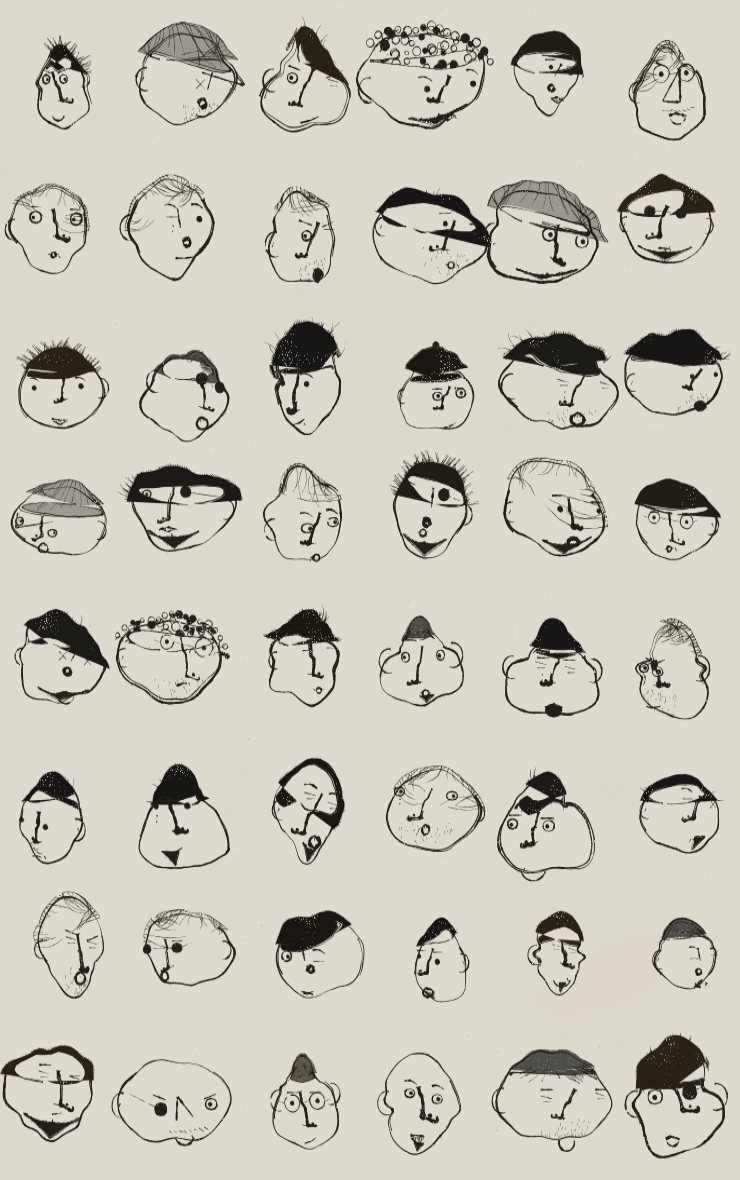
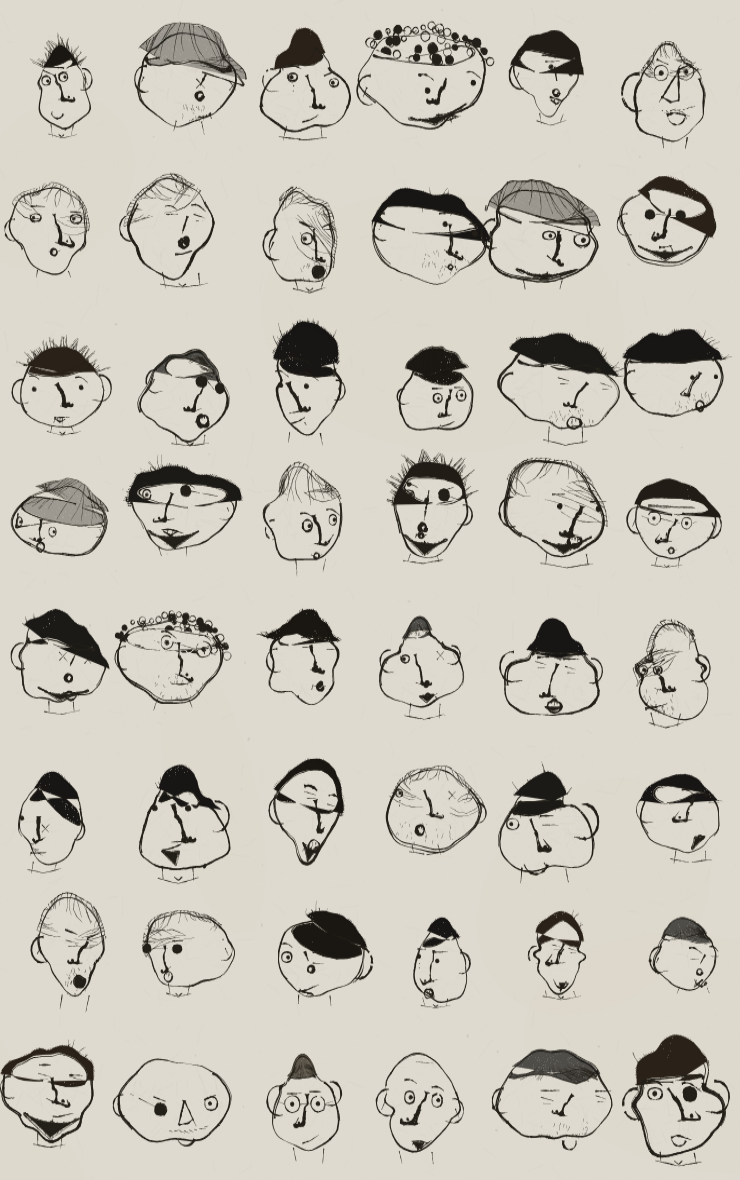
Gauntlet: limb edges that disagree, blots, ears, necks
Answering the last two critic rounds.

- Limb edges no longer come from offsetting one centreline, so the two
  sides of an arm wobble and taper independently instead of holding a
  machine-perfect constant gap. Hems and collars are drawn arcs rather
  than a ruled line and a compass ellipse.
- The torso leans a few degrees off the head's axis; shoulder heights,
  arm lengths and leg placement all disagree side to side.
- The pen overshoots corners, and drops the occasional blot where it sat
  too long.
- Ears are bigger and on every head that can show one; heads get a short
  neck and a collar or bow-tie mark, which every reference head has.
- The screen-space tooth filter is dialled back: the erosion that reads
  as ink lives in the mass, at the scale of the mark. A fixed grain size
  on a small head and a large one was a tell.
- Names stay clear of the figure's silhouette.
- Colour is gone from skins and garments; value is line and solid black
  only, and paper fibre is restamped over anything painted out.

Claude-Session: https://claude.ai/code/session_01RJWY9ufwnD6fjwW6ve4one

diff --git a/dude.js b/dude.js
@@ -233,6 +233,14 @@
       band(-0.32, 0.3, sd + 401, 0.45);
       band(0.32, 0.3, sd + 733, 0.47);
     }
+    // the odd blot where the nib sat down too long
+    if (w > 1.4 && rng.chance(0.1)) {
+      const k = rng.i(2, Math.max(3, n - 3));
+      const q = P[Math.min(n - 1, k)];
+      c.beginPath();
+      c.ellipse(q.x + rng.f(-1, 1), q.y + rng.f(-1, 1), W[k] * rng.f(0.8, 1.5), W[k] * rng.f(0.7, 1.2), rng.f(0, 3), 0, Math.PI * 2);
+      c.fill();
+    }
     // pools where the nib lingered
     for (let k = 3; k < n - 3; k += 2) {
       if (!live[k] || W[k] < w * 1.3) continue;
@@ -263,6 +271,19 @@
         w: (opt.w ?? 1.8) * rng.f(0.6, 0.82),
         dry: (opt.dry ?? 1) * 1.9,
         color: opt.color,
+      });
+    }
+    // the pen runs past the corner instead of stopping on it
+    if (opt.overshoot !== false && !opt.closed && path.length >= 2 && rng.chance(0.42)) {
+      const a = path[path.length - 2];
+      const b = path[path.length - 1];
+      const d = Math.hypot(b.x - a.x, b.y - a.y) || 1;
+      const g = (opt.w ?? 1.8) * rng.f(1.2, 4.5);
+      nib(c, rng, [b, { x: b.x + ((b.x - a.x) / d) * g, y: b.y + ((b.y - a.y) / d) * g }], {
+        w: (opt.w ?? 1.8) * rng.f(0.4, 0.75),
+        color: opt.color,
+        dry: 1.4,
+        wobble: 0.4,
       });
     }
     if (passes < 2 || path.length < 2) return;
@@ -350,6 +371,47 @@
       const b = { x: cx + (dx / d) * (d + reach - bite * 0.85), y: cy + (dy / d) * (d + reach - bite * 0.85) };
       nib(c, rng, [a, b], { w: bite * rng.f(0.34, 0.68), color, dry: 0.9, wobble: 0.5, alpha: opt.alpha ?? 1 });
     }
+  }
+
+  // Anywhere we paint paper over the drawing to occlude it, the fibre has to
+  // go back on top, or the figure reads as a cut-out pasted on the sheet.
+  function refibre(c, rng, poly) {
+    if (!poly || poly.length < 3) return;
+    let x0 = Infinity;
+    let y0 = Infinity;
+    let x1 = -Infinity;
+    let y1 = -Infinity;
+    for (const p of poly) {
+      if (p.x < x0) x0 = p.x;
+      if (p.x > x1) x1 = p.x;
+      if (p.y < y0) y0 = p.y;
+      if (p.y > y1) y1 = p.y;
+    }
+    const area = (x1 - x0) * (y1 - y0);
+    if (!isFinite(area) || area <= 0) return;
+    c.save();
+    c.beginPath();
+    poly.forEach((p, i) => (i ? c.lineTo(p.x, p.y) : c.moveTo(p.x, p.y)));
+    c.closePath();
+    c.clip();
+    const n = Math.min(700, Math.round(area / 90));
+    for (let i = 0; i < n; i++) {
+      const a = rng.f(0, Math.PI * 2);
+      const len = rng.f(3, 20);
+      c.strokeStyle = rng.chance(0.55) ? "rgba(74,60,40,0.03)" : "rgba(255,253,246,0.05)";
+      c.lineWidth = rng.f(0.4, 1.0);
+      const x = rng.f(x0, x1);
+      const y = rng.f(y0, y1);
+      c.beginPath();
+      c.moveTo(x, y);
+      c.lineTo(x + Math.cos(a) * len, y + Math.sin(a) * len);
+      c.stroke();
+    }
+    for (let i = 0; i < n * 4; i++) {
+      c.fillStyle = rng.chance(0.6) ? "rgba(48,36,22,0.032)" : "rgba(255,255,255,0.034)";
+      c.fillRect(rng.f(x0, x1), rng.f(y0, y1), rng.f(0.3, 1.2), rng.f(0.25, 0.8));
+    }
+    c.restore();
   }
 
   // Solid mass with a ragged, hand-cut edge.
@@ -518,8 +580,10 @@
         } else if (!edge) {
           // Tooth shows through a mass in PATCHES, where the sheet rides high
           // under the nib — never as an even sprinkle across the whole black.
+          // Kept light: the erosion that reads as ink belongs in the mass
+          // itself, at the scale of the mark, not in a screen-space filter.
           const t = valueNoise(x * 0.045, y * 0.045, 5501);
-          if (t > 0.6 && u < (t - 0.6) * 0.42) {
+          if (t > 0.72 && u < (t - 0.72) * 0.3) {
             const fade = 0.2 + u * 6;
             d[p] = r + (pr - r) * fade;
             d[p + 1] = g + (pg - g) * fade;
@@ -763,6 +827,7 @@
   function drawHead(c, rng, skull, skinWash) {
     const hull = skull.silhouette(rng);
     inkFill(c, rng, hull, PAPER, 1, 0.6);
+    refibre(c, rng, hull);
     if (skinWash) inkFill(c, rng, hull, skinWash, 0.16, 0.6);
     // A head is not one closed loop. It is a cranium drawn over, then a jaw
     // drawn under, and they overshoot and cross where they meet — which is
@@ -788,10 +853,38 @@
 
     const earL = pin(skull, { x: -0.92, y: 0.02, z: 0.05 });
     const earR = pin(skull, { x: 0.92, y: 0.02, z: 0.05 });
-    const er = skull.s * rng.f(0.17, 0.26);
-    if (earL.z > -0.02 && rng.chance(0.88)) drawEar(c, rng, earL.x, earL.y, er, -1);
-    if (earR.z > -0.02 && rng.chance(0.88)) drawEar(c, rng, earR.x, earR.y, er, 1);
+    const er = skull.s * rng.f(0.2, 0.32);
+    if (earL.z > -0.02) drawEar(c, rng, earL.x, earL.y, er * rng.f(0.85, 1.15), -1);
+    if (earR.z > -0.02) drawEar(c, rng, earR.x, earR.y, er * rng.f(0.85, 1.15), 1);
     return hull;
+  }
+
+  // A little neck and collar under the chin. Every head on the reference
+  // plates has one; a head floating alone on the paper does not read.
+  function drawNeck(c, rng, skull) {
+    const s = skull.s;
+    const chin = skull.limit(skull.project({ x: 0, y: 0.95, z: 0.35 }), 0);
+    const drop = s * rng.f(0.14, 0.3);
+    const halfW = s * rng.f(0.3, 0.46);
+    const l = { x: chin.x - halfW, y: chin.y - s * 0.04 };
+    const r = { x: chin.x + halfW * rng.f(0.85, 1.15), y: chin.y - s * 0.02 };
+    const lb = { x: l.x + rng.f(-3, 3), y: chin.y + drop };
+    const rb = { x: r.x + rng.f(-3, 3), y: chin.y + drop * rng.f(0.9, 1.1) };
+    inkPoly(c, rng, [l, lb], { w: s * 0.02, dry: 0.5 });
+    inkPoly(c, rng, [r, rb], { w: s * 0.02, dry: 0.5 });
+    if (rng.chance(0.6)) {
+      // the collar, or a bow tie, or a scribble that stands for one
+      const mid = { x: (lb.x + rb.x) / 2, y: (lb.y + rb.y) / 2 };
+      inkPoly(c, rng, [{ x: lb.x - s * 0.12, y: lb.y - s * 0.02 }, { x: mid.x, y: mid.y + s * rng.f(0.04, 0.1) }, { x: rb.x + s * 0.12, y: rb.y - s * 0.02 }], { w: s * 0.019, dry: 0.6, wobble: s * 0.03 });
+      if (rng.chance(0.45)) {
+        inkPoly(c, rng, [
+          { x: mid.x - s * 0.09, y: mid.y - s * 0.03 },
+          { x: mid.x, y: mid.y + s * 0.04 },
+          { x: mid.x + s * 0.09, y: mid.y - s * 0.03 },
+          { x: mid.x, y: mid.y + s * 0.04 },
+        ], { w: s * 0.017, dry: 0.7 });
+      }
+    }
   }
 
   function drawEar(c, rng, x, y, r, side) {
@@ -1353,7 +1446,7 @@
     // raw 3D points works until the head turns, and then the nose walks off
     // across the cheek. The axis turns with the skull; the nose rides it.
     const fy = skull.faceY || 0;
-    const browP = skull.project({ x: 0, y: -0.34 + fy, z: 0.72 });
+    const browP = skull.project({ x: rng.f(-0.05, 0.05), y: -0.24 + fy + rng.f(-0.05, 0.06), z: 0.72 });
     const chinP = skull.project({ x: 0, y: 0.95, z: 0.4 });
     let ax = chinP.x - browP.x;
     let ay = chinP.y - browP.y;
@@ -1568,12 +1661,31 @@
   // side, down the leg, round the shoe and back — then clothes cut into it.
   // A torso box with tube limbs stuck on is the thing that reads as assembly.
 
-  function edgeOf(pts, r, side) {
+  // Two lines drawn down a limb by hand never stay parallel. Offsetting one
+  // centreline gives a machine-perfect constant gap, which is the thing that
+  // makes an arm read as a stroked path instead of a drawing.
+  function edgeOf(pts, r, side, seed = 0) {
     const N = normals(pts);
     const out = [];
-    for (let i = 0; i < pts.length; i++) {
-      const rr = typeof r === "function" ? r(i / (pts.length - 1 || 1)) : r;
+    const n = pts.length;
+    for (let i = 0; i < n; i++) {
+      const t = i / (n - 1 || 1);
+      const j = fbm2(t * 3.6 + seed * 0.7, seed * 1.3 + 4, 3301 + ((seed * 37) | 0)) - 0.5;
+      const j2 = fbm2(t * 9.1 + seed, seed * 0.4 + 9, 5507 + ((seed * 11) | 0)) - 0.5;
+      const rr = (typeof r === "function" ? r(t) : r) * (1 + j * 0.44 + j2 * 0.16);
       out.push({ x: pts[i].x + N[i].x * rr * side, y: pts[i].y + N[i].y * rr * side });
+    }
+    return out;
+  }
+
+  // an arc with a hand's radius, not a compass's
+  function arcPts(x, y, r, a0, a1, rng) {
+    const n = Math.max(6, Math.round((r * Math.abs(a1 - a0)) / 4));
+    const out = [];
+    for (let i = 0; i <= n; i++) {
+      const a = a0 + (a1 - a0) * (i / n);
+      const rr = r * (1 + (fbm2(i * 0.4, r * 0.03, rng.seed + 13) - 0.5) * 0.22);
+      out.push({ x: x + Math.cos(a) * rr, y: y + Math.sin(a) * rr * rng.f(0.95, 1.05) });
     }
     return out;
   }
@@ -1645,7 +1757,15 @@
     const asymR = rng.f(0.86, 1.14);
     const asym = (side) => (side < 0 ? asymL : asymR);
 
-    const P = (x, y) => ({ x: cx + x + lx * (y - neckY) / (s * 2), y });
+    // the torso leans a few degrees off the head's axis
+    const tilt = rng.f(-0.1, 0.1);
+    const ct = Math.cos(tilt);
+    const st = Math.sin(tilt);
+    const P = (x, y) => {
+      const dy = y - neckY;
+      const dx = x + (lx * dy) / (s * 2);
+      return { x: cx + dx * ct - dy * st, y: neckY + dx * st + dy * ct };
+    };
 
     // ---- skeleton lines the outline is grown around ----
     const arm = (side) => {
@@ -1763,13 +1883,13 @@
       .concat([waistL])
       .concat(span(waistL, hipL, 3))
       .concat([hipL])
-      .concat(edgeOf(LlS, legR, -1).slice(1))
+      .concat(edgeOf(LlS, legR, -1, 31).slice(1))
       .concat(Lfoot)
-      .concat(edgeOf(LlS, legR, 1).reverse().slice(1, -1))
+      .concat(edgeOf(LlS, legR, 1, 43).reverse().slice(1, -1))
       .concat([crotch])
-      .concat(edgeOf(RlS, legR, -1).slice(1))
+      .concat(edgeOf(RlS, legR, -1, 57).slice(1))
       .concat(Rfoot.slice().reverse())
-      .concat(edgeOf(RlS, legR, 1).reverse().slice(1, -1))
+      .concat(edgeOf(RlS, legR, 1, 71).reverse().slice(1, -1))
       .concat([hipR])
       .concat(span(hipR, waistR, 3))
       .concat([waistR])
@@ -1778,13 +1898,13 @@
       .concat(span(shoulderR, neckR, 3))
       .concat([neckR]);
 
-    const armShape = (S) => {
-      const a = edgeOf(S, armR, -1);
-      const b = edgeOf(S, armR, 1);
+    const armShape = (S, sd) => {
+      const a = edgeOf(S, armR, -1, sd);
+      const b = edgeOf(S, armR, 1, sd + 13);
       return a.concat(round(S, armR(1))).concat(b.reverse());
     };
-    const Larm = armShape(LaS);
-    const Rarm = armShape(RaS);
+    const Larm = armShape(LaS, 11);
+    const Rarm = armShape(RaS, 83);
 
     if (clothes.wash) {
       inkFill(c, rng, core, clothes.wash, 0.22, 0.8);
@@ -1799,6 +1919,8 @@
     // the arm sits in front of the body, so it hides the line behind it
     inkFill(c, rng, Larm, clothes.wash || PAPER, clothes.wash ? 0.22 : 1, 0.8);
     inkFill(c, rng, Rarm, clothes.wash || PAPER, clothes.wash ? 0.22 : 1, 0.8);
+    refibre(c, rng, Larm);
+    refibre(c, rng, Rarm);
     inkPoly(c, rng, Larm, { closed: true, w: bw * 0.92, dry: 0.7, wobble: wob * 0.8 });
     inkPoly(c, rng, Rarm, { closed: true, w: bw * 0.92, dry: 0.7, wobble: wob * 0.8 });
     if (pose !== "folded" && pose !== "pockets") {
@@ -1821,19 +1943,19 @@
     const sleeveT = rng.f(0.42, 0.72);
     const cuff = (S, side) => {
       const i = Math.round(sleeveT * (S.length - 1));
-      const a = edgeOf(S, armR, -1)[i];
-      const b = edgeOf(S, armR, 1)[i];
+      const a = edgeOf(S, armR, -1, side < 0 ? 11 : 83)[i];
+      const b = edgeOf(S, armR, 1, side < 0 ? 24 : 96)[i];
       if (a && b) inkLine(c, rng, a.x, a.y, b.x, b.y, s * 0.016);
     };
 
     if (clothes.kind === "tee") {
       cuff(LaS, -1);
       cuff(RaS, 1);
-      inkArc(c, rng, (neckL.x + neckR.x) / 2, neckL.y + s * 0.06, s * rng.f(0.24, 0.32), 0.42, Math.PI - 0.42, s * 0.017);
-      inkLine(c, rng, waistL.x + s * 0.04, hemY, waistR.x - s * 0.04, hemY + rng.f(-4, 4), s * 0.018);
+      inkPoly(c, rng, arcPts((neckL.x + neckR.x) / 2, neckL.y + s * 0.06, s * rng.f(0.24, 0.32), 0.42, Math.PI - 0.42, rng), { w: s * 0.017, dry: 0.6, wobble: s * 0.035 });
+      inkPoly(c, rng, [{ x: waistL.x + s * 0.04, y: hemY }, { x: (waistL.x + waistR.x) / 2, y: hemY + rng.f(-5, 6) }, { x: waistR.x - s * 0.04, y: hemY + rng.f(-4, 5) }], { w: s * 0.018, dry: 0.6, wobble: s * 0.045 });
     } else if (clothes.kind === "hoodie") {
-      inkArc(c, rng, (neckL.x + neckR.x) / 2, neckY + s * 0.36, s * 0.42, 0.35, Math.PI - 0.35, s * 0.019);
-      inkLine(c, rng, waistL.x + s * 0.04, hemY, waistR.x - s * 0.04, hemY + rng.f(-3, 5), s * 0.021);
+      inkPoly(c, rng, arcPts((neckL.x + neckR.x) / 2, neckY + s * 0.36, s * 0.42, 0.35, Math.PI - 0.35, rng), { w: s * 0.019, dry: 0.6, wobble: s * 0.035 });
+      inkPoly(c, rng, [{ x: waistL.x + s * 0.04, y: hemY }, { x: (waistL.x + waistR.x) / 2, y: hemY + rng.f(-5, 6) }, { x: waistR.x - s * 0.04, y: hemY + rng.f(-4, 5) }], { w: s * 0.021, dry: 0.6, wobble: s * 0.045 });
       const pk = (neckL.x + neckR.x) / 2;
       inkPoly(c, rng, [
         { x: pk - s * 0.34, y: hemY - s * 0.42 },
@@ -1860,11 +1982,11 @@
         { x: mid + s * 0.06, y: shY + s * 0.36 },
         { x: mid + s * 0.34, y: shY + s * 0.44 },
       ], { w: s * 0.016 });
-      inkLine(c, rng, waistL.x + s * 0.04, hemY, waistR.x - s * 0.04, hemY + rng.f(-3, 4), s * 0.02);
+      inkPoly(c, rng, [{ x: waistL.x + s * 0.04, y: hemY }, { x: (waistL.x + waistR.x) / 2, y: hemY + rng.f(-5, 6) }, { x: waistR.x - s * 0.04, y: hemY + rng.f(-4, 5) }], { w: s * 0.02, dry: 0.6, wobble: s * 0.045 });
       cuff(LaS, -1);
       cuff(RaS, 1);
     } else if (clothes.kind === "sweater") {
-      inkArc(c, rng, (neckL.x + neckR.x) / 2, neckY + s * 0.16, s * 0.3, 0.3, Math.PI - 0.3, s * 0.019);
+      inkPoly(c, rng, arcPts((neckL.x + neckR.x) / 2, neckY + s * 0.16, s * 0.3, 0.3, Math.PI - 0.3, rng), { w: s * 0.019, dry: 0.6, wobble: s * 0.035 });
       for (let i = 0; i < 4; i++) {
         const y = hemY - s * 0.16 + i * s * 0.055;
         inkLine(c, rng, waistL.x + s * 0.08, y, waistR.x - s * 0.08, y + rng.f(-2, 2), s * 0.012);
@@ -2305,21 +2427,20 @@
     // The name goes where there is room, the way a hand writes it in the gap
     // it finds — not pinned at the same offset off the jaw every time.
     const size = rng.f(21, 32);
-    const spot = rng.pick(["jaw", "jaw", "shoulder", "above", "feet", "feet"]);
+    // keep it clear of the silhouette — a name cutting through a shoulder
+    // is the one thing a person writing it would never do
+    const spot = rng.pick(["jaw", "jaw", "shoulder", "feet", "feet"]);
     let nameX;
     let nameY;
-    if (spot === "above") {
-      nameX = cx - s * rng.f(0.4, 1.0);
-      nameY = cy - s * rng.f(1.5, 1.9);
-    } else if (spot === "feet") {
-      nameX = cx + s * rng.f(-1.5, 0.4);
-      nameY = body.footY + s * rng.f(0.25, 0.7);
+    if (spot === "feet") {
+      nameX = cx + s * rng.f(-1.4, 0.5);
+      nameY = Math.min(h - size * 1.5, body.footY + s * rng.f(0.3, 0.75));
     } else if (spot === "shoulder") {
-      nameX = cx + s * rng.f(1.0, 1.5);
-      nameY = cy + s * rng.f(1.5, 2.2);
+      nameX = cx + s * rng.f(1.2, 1.6);
+      nameY = cy + s * rng.f(1.6, 2.4);
     } else {
-      nameX = cx + s * rng.f(1.0, 1.35);
-      nameY = cy + s * rng.f(0.1, 0.6);
+      nameX = cx + s * rng.f(1.15, 1.45);
+      nameY = cy + s * rng.f(0.05, 0.6);
     }
     const nameW = size * (String(dude.name).length * 0.92 + 0.6);
     nameX = Math.max(16, Math.min(w - nameW - 12, nameX));
@@ -2365,6 +2486,7 @@
         drawNose(c, rng, skull, d.nose, d.noseHeavy);
         drawMouth(c, rng, skull, d.mouth);
         drawFacialHair(c, rng, skull, d.beard);
+        if (rng.chance(0.62)) drawNeck(c, rng, skull);
       }
     }
     grainPass(c);

diff --git a/README.md b/README.md
@@ -14,6 +14,14 @@ then visit `http://localhost:8765`.
 
 Space, click, or tap for another. The seed is in the URL (`?s=4929`).
 
+`?plate=1` renders a sheet of 48 heads in the same format as the reference
+plates, so it can be judged against them like for like. `scripts/shot.sh`
+screenshots seeded dudes into `progress/shots/`; `scripts/plate.sh` does the
+same for a sheet.
+
 ## Gauntlet
 
-`GAUNTLET.md` is the loop prompt. `NOTES.md` is what his lab video actually shows. Reference plates are in `refs/`.
+`GAUNTLET.md` is the loop prompt and `GAUNTLET-OPUS.md` is the continuation.
+`NOTES.md` is what his lab video actually shows. Reference plates are in
+`refs/`. `progress.html` is the running log: what each round changed, and the
+blind A/B verdicts that forced it.
